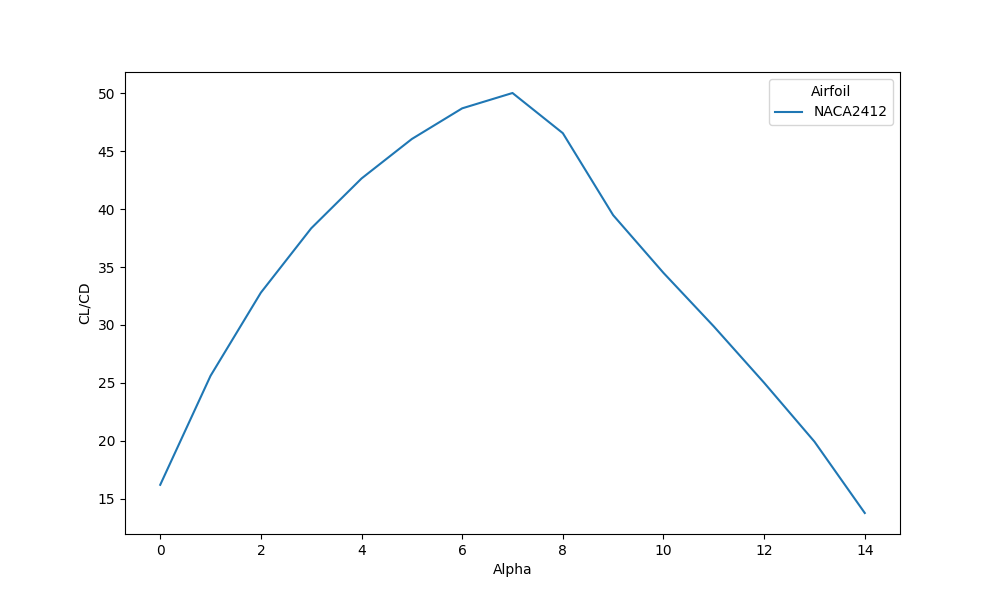
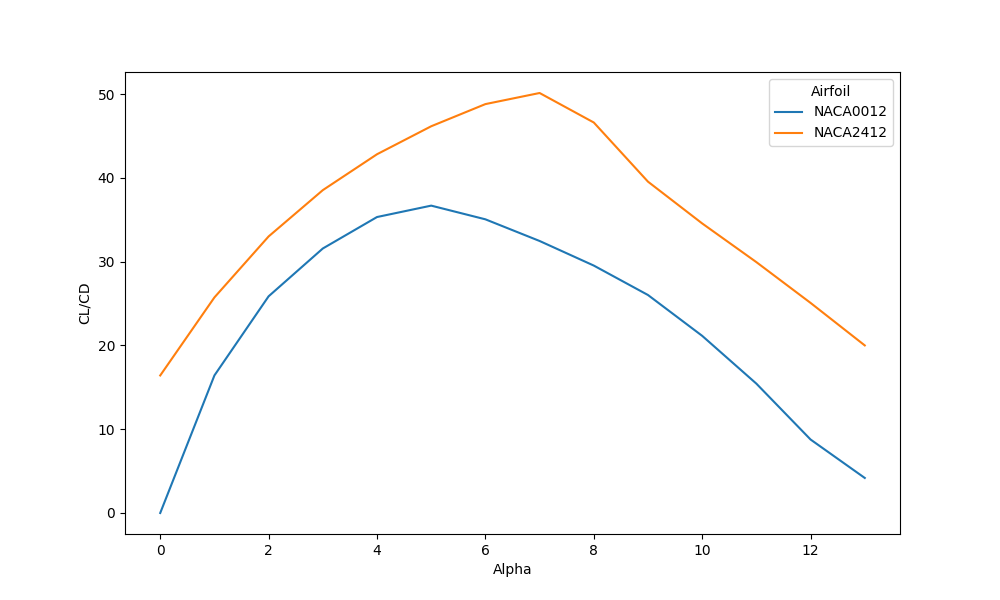
made the last 2 digits 1 variable, as both represent the same thing (thickness)

diff --git a/lm.py b/lm.py
@@ -12,15 +12,17 @@ print(df["Airfoil"].unique())
 print(df.head())
 
 df['Airfoil_Code'] = df['Airfoil'].str.extract(r'(\d{4})')
-df[['M', 'P', 'T', "X"]] = df['Airfoil_Code'].str.split('', expand=True).iloc[:, 1:5]
-df[['M', 'P', 'T', 'X']] = df[['M', 'P', 'T', 'X']].astype(float)
+df['M'] = df['Airfoil_Code'].str[0].astype(float)
+df['P'] = df['Airfoil_Code'].str[1].astype(float)
+df['T'] = df['Airfoil_Code'].str[2:].astype(float)
+df[['M', 'P', 'T']] = df[['M', 'P', 'T']].astype(float)
 
-geometric_df = df.groupby(['Airfoil_Code', 'M', 'P', 'T', 'X', "Alpha"])['CL'].mean().reset_index()
+geometric_df = df.groupby(['Airfoil_Code', 'M', 'P', 'T', "Alpha"])['CL'].mean().reset_index()
 geometric_df.rename(columns={'CL': 'Mean_CL'}, inplace=True)
 
-print(geometric_df[['M','P','T','X','Mean_CL']].corr()['Mean_CL'])
+print(geometric_df[['M','P','T','Mean_CL']].corr()['Mean_CL'])
 
-for var in ['M', 'P', 'T', 'X']:
+for var in ['M', 'P', 'T']:
     plt.figure()
     sns.scatterplot(x=geometric_df[var], y=geometric_df['Mean_CL'])
     sns.regplot(x=geometric_df[var], y=geometric_df['Mean_CL'], scatter=False, ci=None)
@@ -30,7 +32,7 @@ for var in ['M', 'P', 'T', 'X']:
 
 print(df.head())
 
-results_geometry = smf.ols('Mean_CL ~ Alpha + M + P + T + X', data = geometric_df).fit()
+results_geometry = smf.ols('Mean_CL ~ Alpha + M + P + T', data = geometric_df).fit()
 print(results_geometry.summary())
 
 sns.histplot(results_geometry.resid, kde=True)

diff --git a/MODEL_SUMMARY.md b/MODEL_SUMMARY.md
@@ -5,27 +5,26 @@
 ==============================================================================
 Dep. Variable:                Mean_CL   R-squared:                       0.752
 Model:                            OLS   Adj. R-squared:                  0.750
-Method:                 Least Squares   F-statistic:                     346.0
-Date:                Fri, 10 Oct 2025   Prob (F-statistic):          4.98e-170
-Time:                        18:32:15   Log-Likelihood:                 152.94
-No. Observations:                 576   AIC:                            -293.9
-Df Residuals:                     570   BIC:                            -267.7
-Df Model:                           5                                         
+Method:                 Least Squares   F-statistic:                     433.3
+Date:                Fri, 10 Oct 2025   Prob (F-statistic):          2.28e-171
+Time:                        19:16:25   Log-Likelihood:                 152.93
+No. Observations:                 576   AIC:                            -295.9
+Df Residuals:                     571   BIC:                            -274.1
+Df Model:                           4                                         
 Covariance Type:            nonrobust                                         
 ==============================================================================
                  coef    std err          t      P>|t|      [0.025      0.975]
 ------------------------------------------------------------------------------
-Intercept      0.3372      0.039      8.642      0.000       0.261       0.414
-Alpha          0.0693      0.002     35.024      0.000       0.065       0.073
-M              0.0675      0.003     22.599      0.000       0.062       0.073
-P             -0.0016      0.004     -0.382      0.702      -0.010       0.007
-T             -0.0645      0.022     -2.935      0.003      -0.108      -0.021
-X             -0.0059      0.004     -1.455      0.146      -0.014       0.002
+Intercept      0.3402      0.035      9.734      0.000       0.272       0.409
+Alpha          0.0693      0.002     35.054      0.000       0.065       0.073
+M              0.0675      0.003     22.740      0.000       0.062       0.073
+P             -0.0017      0.004     -0.408      0.683      -0.010       0.006
+T             -0.0065      0.002     -3.041      0.002      -0.011      -0.002
 ==============================================================================
-Omnibus:                      233.253   Durbin-Watson:                   0.366
-Prob(Omnibus):                  0.000   Jarque-Bera (JB):              884.168
-Skew:                          -1.882   Prob(JB):                    1.01e-192
-Kurtosis:                       7.761   Cond. No.                         50.6
+Omnibus:                      233.848   Durbin-Watson:                   0.366
+Prob(Omnibus):                  0.000   Jarque-Bera (JB):              890.410
+Skew:                          -1.886   Prob(JB):                    4.47e-194
+Kurtosis:                       7.783   Cond. No.                         71.0
 ==============================================================================
 
 Notes:
